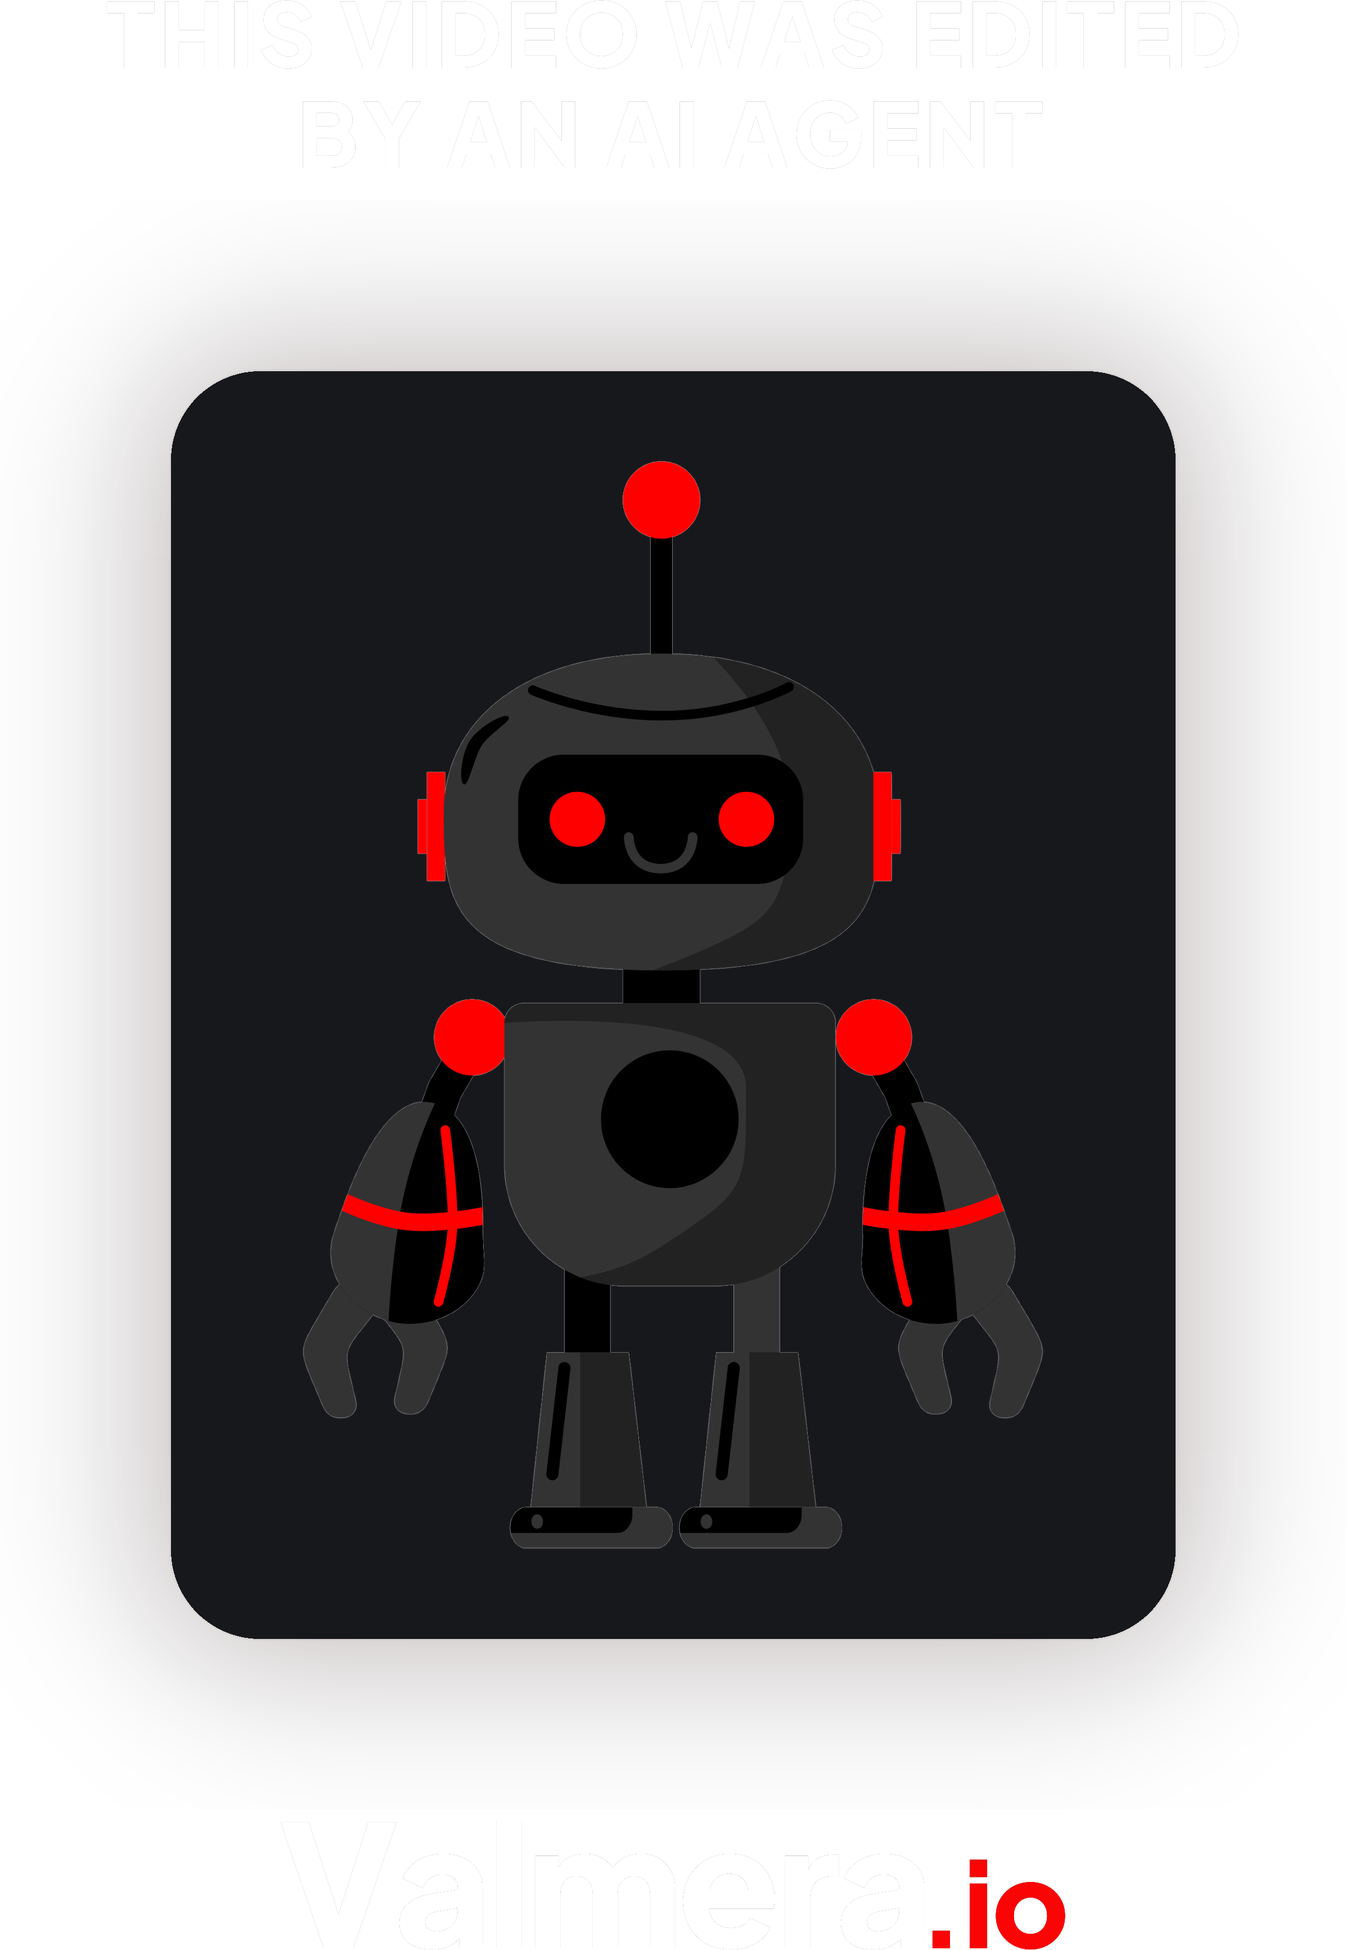
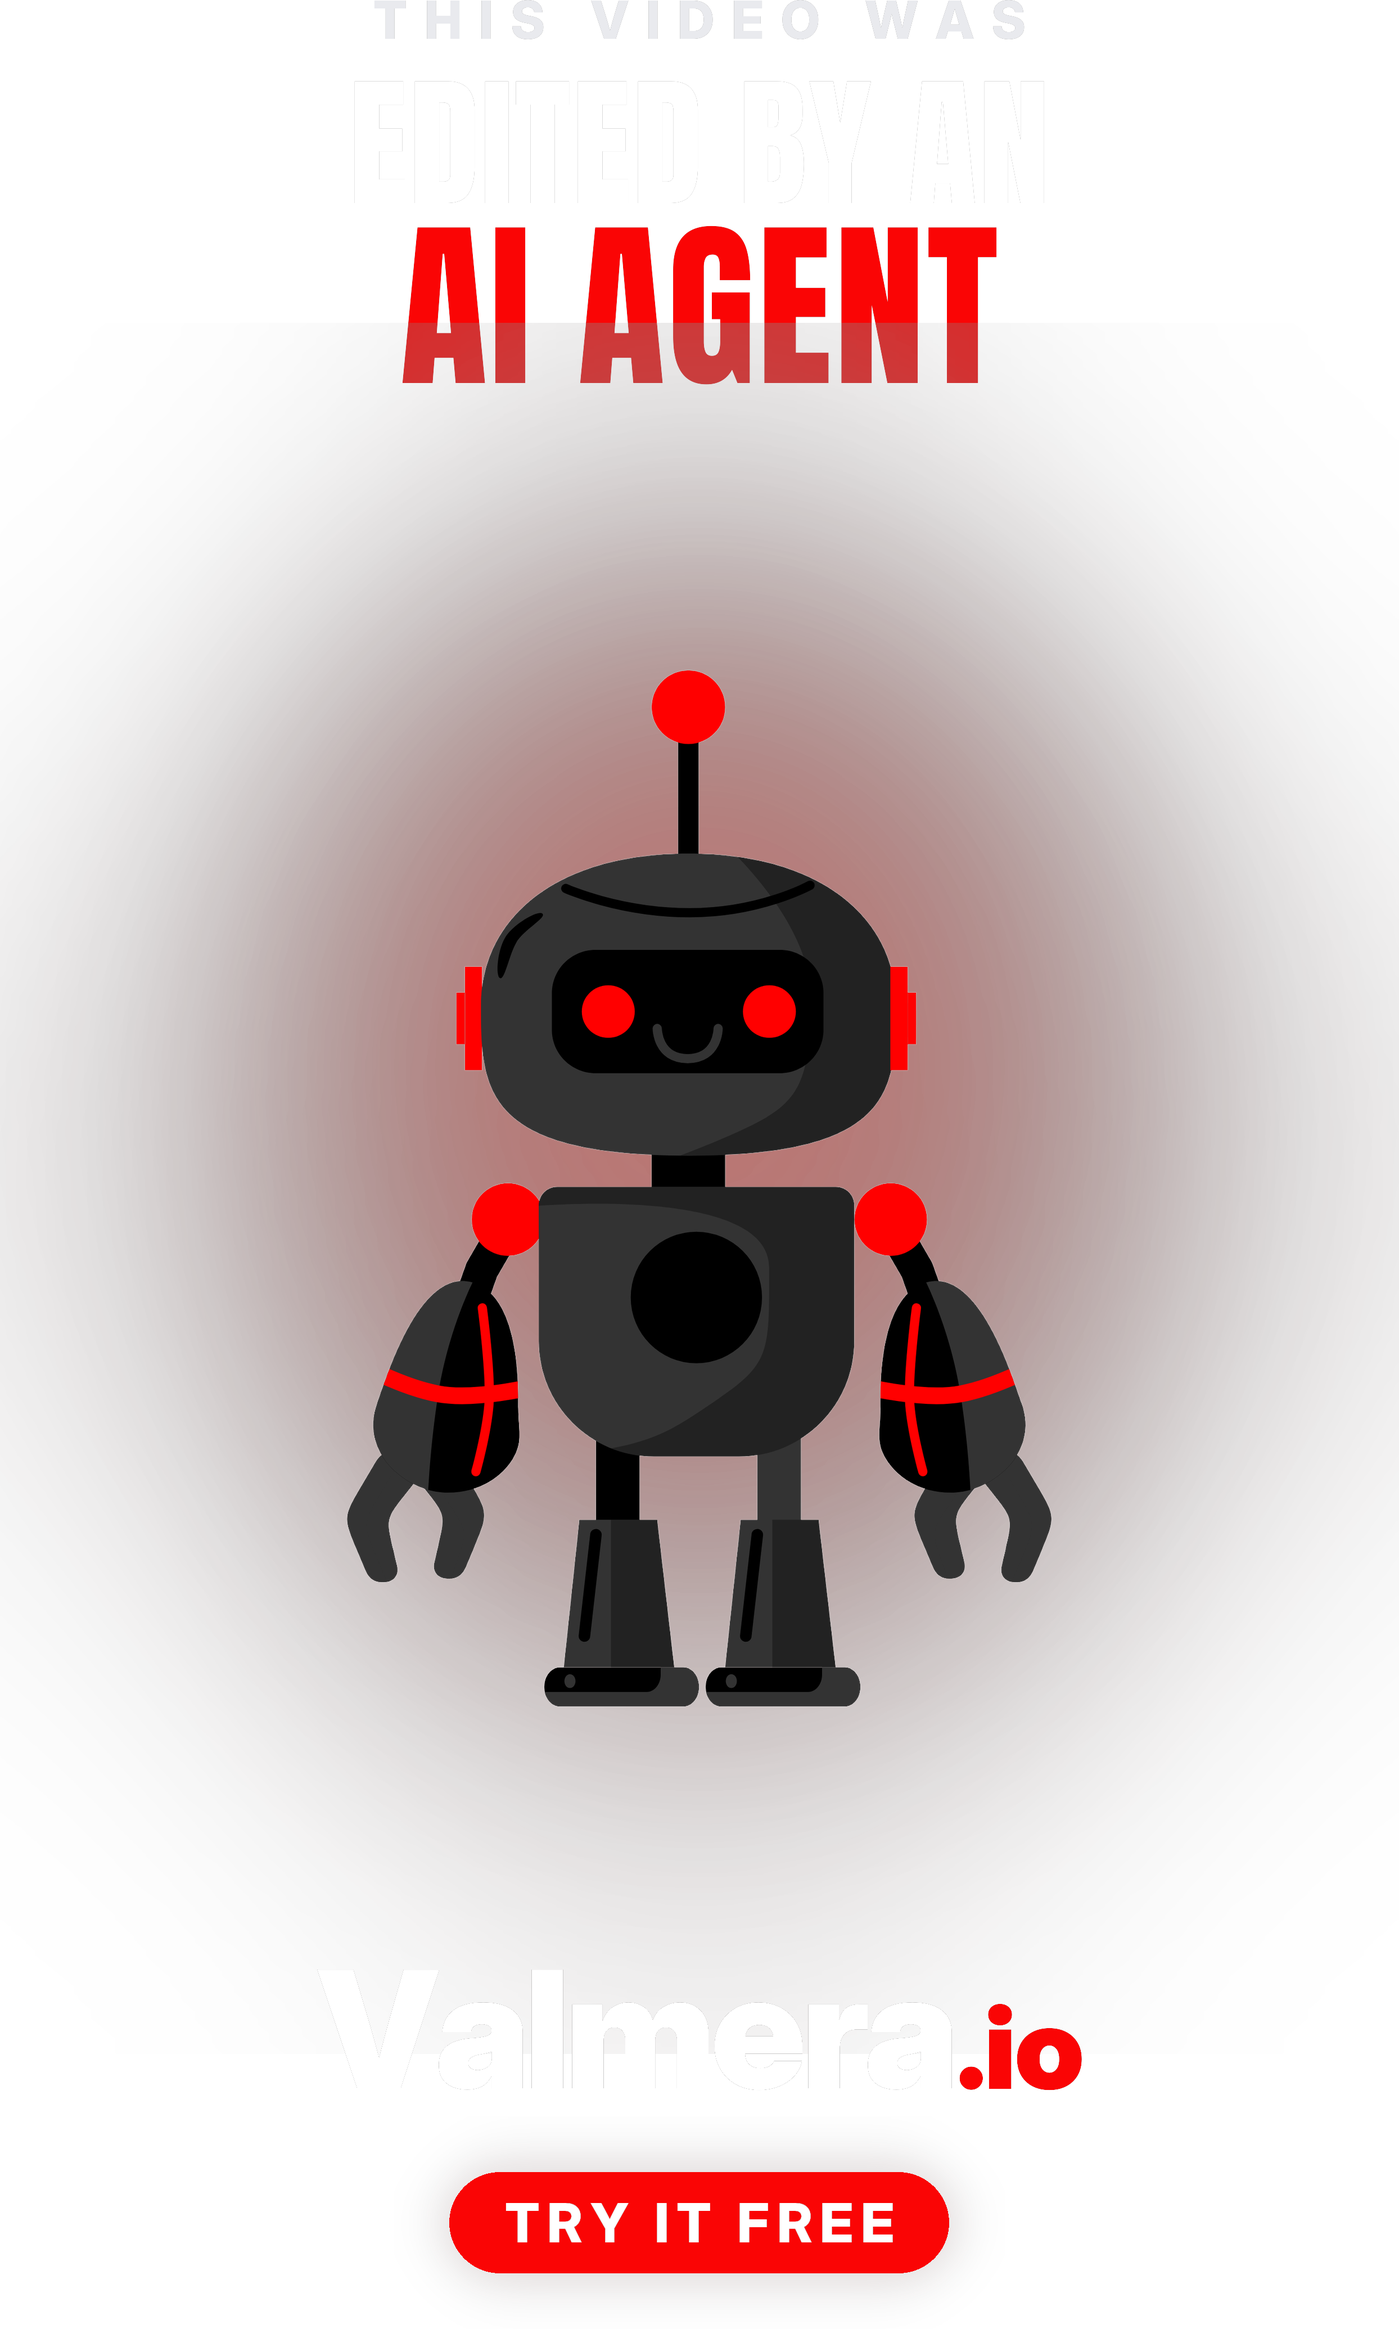
end card v5: the conversion page
v4's panel read as 'a background behind the robot' and Plus Jakarta's
tracked caps read as UI chrome, not a hook. v5: Anton display type
(THIS VIDEO WAS / EDITED BY AN / AI AGENT in red), the TRUE-color robot
floating on an organic two-layer red glow — light, not furniture — the
wordmark, and a filled TRY IT FREE pill. OUTRO_VERSION=5 both sides so
every cached final re-encodes with the page.

diff --git a/worker/tools/build_endcard.py b/worker/tools/build_endcard.py
@@ -1,29 +1,26 @@
 """Build the Valmera end card PNG that every export ends on.
 
-Round 99b: the card the owner spec'd, top to bottom —
+Round 100b — v5, the CONVERSION page. Three versions taught three lessons:
+v3 recolored the robot to survive bare black and the owner read it as the
+wrong robot; v4 kept the true colors by seating it on an elevated panel and
+the owner read the panel as "a background behind it"; and Plus Jakarta's
+tracked caps read as UI chrome, not a hook. So v5, top to bottom:
 
-    THIS VIDEO WAS EDITED
-        BY AN AI AGENT
-         [the robot]
-         Valmera.io
+    THIS VIDEO WAS            (quiet tracked eyebrow)
+    EDITED BY AN              (Anton — the shorts-native display face)
+    AI AGENT                  (Anton, red — the line that stops the scroll)
+        [the robot]           (TRUE plan-card colors, floating on an
+                               ORGANIC red glow — light, not furniture:
+                               no rectangle, no edge, nothing that reads
+                               as a plate)
+    Valmera.io                (the destination)
+    [ TRY IT FREE ]           (a filled red pill — the card is a PAGE with
+                               a call to action, not a watermark)
 
-The mark is the GRAY-RED robot — the Pro plan's card robot on the billing
-page (`frontend-next/public/hustler-robot112.riv`), rendered to
-`worker/brand/robot112.png` at 2400px via the headless-Chrome recipe in
-brand/README.md, so the card and the site show the same character.
-
-Two corrections, both deliberate:
-
-* BLACK-FLOOR LIFT. The artwork is drawn for a light card, so its pure-black
-  parts (antenna stalk, neck, visor plate, chest port, upper legs) are meant
-  to read as ink. On the black end card every one of them would dissolve into
-  the background — a floating red antenna ball, a head hovering off its body.
-  `_lift_blacks` raises just those near-black pixels to a dark charcoal that
-  still reads darker than the body grays but no longer vanishes.
-
-* SILHOUETTE GLOW. A dark robot on a black card needs an edge: a soft
-  radial wash, barely above black and slightly red, sits behind the mark so
-  the silhouette separates without reading as a "spotlight effect".
+The glow is what lets the robot's pure-black ink (antenna stalk, visor,
+joints) read against a black frame without repainting a single pixel: two
+stacked radial washes, the inner one warm and bright enough to silhouette
+the head and torso, both Gaussian-blurred until no boundary survives.
 
 Layout is set in INK boxes, never text boxes: a text box carries the font's
 full ascent/descent, so a nominal gap measures nearly double in whitespace.
@@ -32,17 +29,19 @@ import os
 from PIL import Image, ImageDraw, ImageFilter, ImageFont
 
 WHITE = (255, 255, 255, 255)
-# The robot's own red (sampled from the antenna ball) — the ".io" and nothing
-# else. One accent, used once, is what keeps the card premium instead of ad.
+SOFT = (233, 234, 238, 255)      # the eyebrow — white would fight the hero
+# The robot's own red (sampled from the antenna ball): the hero line, the
+# ".io" and the CTA fill. One red, three jobs, zero other colors.
 RED = (250, 5, 5, 255)
 
-ROBOT_PNG = os.path.join(os.path.dirname(os.path.dirname(
-    os.path.abspath(__file__))), "brand", "robot112.png")
-
-# Near-black pixels lift to this — visibly darker than the body's ~#2E3237
-# grays, visibly lighter than the void.
-FLOOR = (36, 38, 43)
-FLOOR_MAX = 24          # max(r,g,b) at or under this counts as "vanishes"
+_BRAND = os.path.join(os.path.dirname(os.path.dirname(
+    os.path.abspath(__file__))), "brand")
+_FONTS = os.path.join(os.path.dirname(os.path.dirname(
+    os.path.abspath(__file__))), "fonts")
+ROBOT_PNG = os.path.join(_BRAND, "robot112.png")
+ANTON = os.path.join(_FONTS, "Anton-Regular.ttf")
+INTER_XB = os.path.join(_FONTS, "InterDisplay-ExtraBold.ttf")
+INTER_BLACK = os.path.join(_FONTS, "InterDisplay-Black.ttf")
 
 
 def _ink(img):
@@ -50,66 +49,39 @@ def _ink(img):
     return img.crop(b) if b else img
 
 
-def _lift_blacks(img):
-    """Raise pure-black ink to FLOOR so it survives on a black card.
-    Returns (img, n_lifted); a zero count means the asset changed and the
-    lift no longer matches it — refuse to ship a dissolving robot."""
-    img = img.convert("RGBA")
-    px = img.load()
-    W, H = img.size
-    n = 0
-    for y in range(H):
-        for x in range(W):
-            r, g, b, a = px[x, y]
-            if a > 40 and max(r, g, b) <= FLOOR_MAX:
-                px[x, y] = (FLOOR[0], FLOOR[1], FLOOR[2], a)
-                n += 1
-    return img, n
-
-
-PANEL = (23, 24, 28, 255)         # elevated card surface — the plan card's
-PANEL_EDGE = (255, 255, 255, 22)  # hairline that separates it from the void
-
-
 def robot(height_px):
-    """The billing page's gray-red robot — TRUE colors, on the plan card.
+    """The billing page's gray-red robot — TRUE colors, floating on light.
 
-    Round 100. The v3 card recolored the robot to survive a bare black
-    background (black-floor lift + 1.22x brightness), and the owner read the
-    result as the WRONG robot: "the colours are different from the middle
-    plan's". The honest fix is the one the billing page itself uses — don't
-    repaint the character, give it its card: an elevated rounded panel a
-    step above the void, so the pure-black ink (antenna, visor, joints)
-    reads against the panel and every fill ships exactly as drawn. A soft
-    red under-glow floats the panel off the black.
+    No panel, no plate, no recolor. The two radial washes behind it are the
+    whole trick: the inner one is bright enough that the pure-black ink
+    (antenna, visor, joints) reads as silhouette, and both are blurred past
+    the point where any edge could read as a shape.
     """
     src = Image.open(ROBOT_PNG).convert("RGBA")
     w = max(1, round(src.width * height_px / src.height))
     mark = _ink(src.resize((w, height_px), Image.LANCZOS))
 
-    pad_x = int(height_px * 0.11)
-    pad_y = int(height_px * 0.075)
-    pw, ph = mark.width + 2 * pad_x, mark.height + 2 * pad_y
-    radius = int(height_px * 0.075)
-
-    halo = int(height_px * 0.14)
-    gw, gh = pw + 2 * halo, ph + 2 * halo
+    pad = int(height_px * 0.30)
+    gw, gh = mark.width + 2 * pad, mark.height + 2 * pad
     out = Image.new("RGBA", (gw, gh), (0, 0, 0, 0))
 
     glow = Image.new("RGBA", (gw, gh), (0, 0, 0, 0))
     d = ImageDraw.Draw(glow)
-    d.rounded_rectangle([halo * 0.55, halo * 0.55,
-                         gw - halo * 0.55, gh - halo * 0.55],
-                        radius=radius * 1.6, fill=(120, 26, 26, 132))
-    glow = glow.filter(ImageFilter.GaussianBlur(halo * 0.55))
+    # Outer wash: deep red, wide, barely-there at the rim.
+    d.ellipse([pad * 0.15, pad * 0.15, gw - pad * 0.15, gh - pad * 0.15],
+              fill=(122, 20, 20, 120))
+    glow = glow.filter(ImageFilter.GaussianBlur(pad * 0.60))
     out.alpha_composite(glow)
+    # Inner wash: warmer and brighter, sitting behind head + torso, so the
+    # black ink there has something to be dark AGAINST.
+    core = Image.new("RGBA", (gw, gh), (0, 0, 0, 0))
+    d = ImageDraw.Draw(core)
+    d.ellipse([gw * 0.17, gh * 0.12, gw * 0.83, gh * 0.74],
+              fill=(208, 52, 44, 158))
+    core = core.filter(ImageFilter.GaussianBlur(pad * 0.55))
+    out.alpha_composite(core)
 
-    panel = Image.new("RGBA", (gw, gh), (0, 0, 0, 0))
-    d = ImageDraw.Draw(panel)
-    d.rounded_rectangle([halo, halo, halo + pw, halo + ph], radius=radius,
-                        fill=PANEL, outline=PANEL_EDGE, width=3)
-    out.alpha_composite(panel)
-    out.paste(mark, (halo + pad_x, halo + pad_y), mark)
+    out.paste(mark, (pad, pad), mark)
     return out
 
 
@@ -146,76 +118,91 @@ def _wordmark(word_f, io_f):
     return layer
 
 
-def build(out_path, pjs_path):
-    """Compose the card.
+def _cta(label_f, text="TRY IT FREE"):
+    """The filled red pill. A page that wants the viewer to GO somewhere
+    carries a button, and a button is a shape — the one deliberate shape on
+    the card, which is exactly why the glow behind the robot must not be one."""
+    label = _text(text, label_f, WHITE, 0.14 * label_f.size)
+    pad_x = int(label_f.size * 1.05)
+    pad_y = int(label_f.size * 0.58)
+    W, H = label.width + 2 * pad_x, label.height + 2 * pad_y
+    pill = Image.new("RGBA", (W, H), (0, 0, 0, 0))
+    d = ImageDraw.Draw(pill)
+    d.rounded_rectangle([0, 0, W - 1, H - 1], radius=H // 2, fill=RED)
+    pill.paste(label, (pad_x, pad_y), label)
+    # A soft red bloom under the pill so it sits IN the scene's light
+    # rather than stickered onto it.
+    bloomp = int(H * 0.55)
+    out = Image.new("RGBA", (W + 2 * bloomp, H + 2 * bloomp), (0, 0, 0, 0))
+    bloom = Image.new("RGBA", out.size, (0, 0, 0, 0))
+    d = ImageDraw.Draw(bloom)
+    d.rounded_rectangle([bloomp * 0.6, bloomp * 0.6, out.width - bloomp * 0.6,
+                         out.height - bloomp * 0.6],
+                        radius=H, fill=(210, 30, 30, 110))
+    bloom = bloom.filter(ImageFilter.GaussianBlur(bloomp * 0.55))
+    out.alpha_composite(bloom)
+    out.paste(pill, (bloomp, bloomp), pill)
+    return out
 
-    One reading order, three registers: the STATEMENT (two big tracked lines
-    — what happened), the CHARACTER (the robot, largest element — who did
-    it), the NAME (Valmera.io — where). The robot leads the hierarchy per
-    the owner's spec ("the agent is big"); the headline is the widest
-    element and therefore sizes the card; the wordmark sits just under the
-    robot so character and name read as one unit.
+
+def build(out_path):
+    """Compose the page.
+
+    One reading order, four registers: the QUIET SETUP ("this video was"),
+    the HOOK (Anton, with AI AGENT as the red payoff line), the CHARACTER
+    (the robot, largest element), and the DESTINATION (wordmark + CTA pill).
+    Anton for the hook because this card plays at the end of vertical
+    SHORTS — it is the native display voice of that format; Inter Display
+    carries the small lines so the hook stays the only shout.
     """
-    HEAD_SIZE = 158
-    HEAD_TRACK = 0.045                     # airy, deliberate, not shouty
-    HEAD_LEAD = 56                         # between the two headline lines
-    ROBOT_H = 2150                         # "the agent is big" — it LEADS
-    WORD_SIZE = 300
-    IO_SIZE = 212
-    GAP_HEAD = 56                          # headline -> panel (halo adds air)
-    GAP_WORD = 18                          # panel -> wordmark (ditto)
+    EYEBROW_SIZE = 92
+    HERO_SIZE = 252
+    HERO2_SIZE = 322
+    ROBOT_H = 2050
+    WORD_SIZE = 290
+    IO_SIZE = 205
+    CTA_SIZE = 96
 
-    head_f = ImageFont.truetype(pjs_path, HEAD_SIZE)
-    head_f.set_variation_by_axes([800])
-    word_f = ImageFont.truetype(pjs_path, WORD_SIZE)
-    word_f.set_variation_by_axes([800])
-    io_f = ImageFont.truetype(pjs_path, IO_SIZE)
-    io_f.set_variation_by_axes([800])
+    eyebrow_f = ImageFont.truetype(INTER_XB, EYEBROW_SIZE)
+    hero_f = ImageFont.truetype(ANTON, HERO_SIZE)
+    hero2_f = ImageFont.truetype(ANTON, HERO2_SIZE)
+    word_f = ImageFont.truetype(INTER_BLACK, WORD_SIZE)
+    io_f = ImageFont.truetype(INTER_BLACK, IO_SIZE)
+    cta_f = ImageFont.truetype(INTER_XB, CTA_SIZE)
 
-    line1 = _text("THIS VIDEO WAS EDITED", head_f, WHITE,
-                  HEAD_TRACK * HEAD_SIZE)
-    line2 = _text("BY AN AI AGENT", head_f, WHITE, HEAD_TRACK * HEAD_SIZE)
+    eyebrow = _text("THIS VIDEO WAS", eyebrow_f, SOFT,
+                    0.34 * EYEBROW_SIZE)
+    hero1 = _text("EDITED BY AN", hero_f, WHITE, 0.012 * HERO_SIZE)
+    hero2 = _text("AI AGENT", hero2_f, RED, 0.012 * HERO2_SIZE)
     mark = robot(ROBOT_H)
     word = _wordmark(word_f, io_f)
+    cta = _cta(cta_f)
 
-    W = max(line1.width, line2.width, mark.width, word.width)
-    H = (line1.height + HEAD_LEAD + line2.height + GAP_HEAD
-         + mark.height + GAP_WORD + word.height)
+    GAP_EYEBROW = 74
+    GAP_HERO = 40
+    GAP_HERO2 = -110       # the glow's padding supplies the real air
+    GAP_ROBOT = -150
+    GAP_WORD = 46
+
+    W = max(eyebrow.width, hero1.width, hero2.width, mark.width,
+            word.width, cta.width)
+    parts = ((eyebrow, GAP_EYEBROW), (hero1, GAP_HERO), (hero2, GAP_HERO2),
+             (mark, GAP_ROBOT), (word, GAP_WORD), (cta, 0))
+    H = sum(p.height for p, _ in parts) + sum(g for _, g in parts[:-1])
     card = Image.new("RGBA", (W, H), (0, 0, 0, 0))
     y = 0
-    for part, gap in ((line1, HEAD_LEAD), (line2, GAP_HEAD),
-                      (mark, GAP_WORD), (word, 0)):
+    for part, gap in parts:
         card.paste(part, ((W - part.width) // 2, y), part)
         y += part.height + gap
 
     card.save(out_path)
     print(f"card {card.size[0]}x{card.size[1]}  aspect "
           f"{card.size[0] / card.size[1]:.3f}  robot {mark.size}  "
-          f"headline {line1.size}/{line2.size}  wordmark {word.size}  "
-          f"({os.path.getsize(out_path) / 1024:.0f} KB)")
+          f"hero {hero1.size}/{hero2.size}  wordmark {word.size}  "
+          f"cta {cta.size}  ({os.path.getsize(out_path) / 1024:.0f} KB)")
     return card
 
 
-PJS_URL = ("https://raw.githubusercontent.com/google/fonts/main/ofl/"
-           "plusjakartasans/PlusJakartaSans%5Bwght%5D.ttf")
-
-
-def _font(cache):
-    """Plus Jakarta Sans (SIL OFL 1.1), the site's wordmark face.
-
-    Fetched rather than vendored: only the RENDERED PIXELS ship in the image,
-    and the OFL restricts distributing font software, not images made with it.
-    """
-    if not os.path.exists(cache):
-        import urllib.request
-        print(f"fetching Plus Jakarta Sans -> {cache}")
-        urllib.request.urlretrieve(PJS_URL, cache)
-    return cache
-
-
 if __name__ == "__main__":
-    here = os.path.dirname(os.path.abspath(__file__))
-    brand = os.path.join(os.path.dirname(here), "brand")
-    os.makedirs(brand, exist_ok=True)
-    build(os.path.join(brand, "endcard.png"),
-          _font(os.path.join(here, "PJS.ttf")))
+    os.makedirs(_BRAND, exist_ok=True)
+    build(os.path.join(_BRAND, "endcard.png"))

diff --git a/worker/config.py b/worker/config.py
@@ -1349,11 +1349,11 @@ OUTRO_ON_PREVIEW = os.getenv("OUTRO_ON_PREVIEW", "0") == "1"
 # Bumped whenever the card's LOOK changes. It is stored on every render asset
 # and busts the render cache, so an existing export re-encodes with the new
 # card instead of serving pre-outro bytes forever.
-OUTRO_VERSION = 4      # v4: the robot in its TRUE plan-card colors on an
-                       # elevated rounded panel (the billing page's own card),
-                       # red under-glow, bigger mark and wordmark — the v3
-                       # black-floor recolor read as "the wrong robot". See
-                       # tools/build_endcard.py
+OUTRO_VERSION = 5      # v5: the conversion page — Anton hook ("EDITED BY AN /
+                       # AI AGENT" in red), the TRUE-color robot floating on
+                       # an organic red glow (no panel — v4's plate read as
+                       # "a background behind it"), wordmark + a filled TRY
+                       # IT FREE pill. See tools/build_endcard.py
 
 # ── Shorts mode (round 99) ───────────────────────────────────────────────
 # One shorts_plan job cuts a long video into at most this many child clips.

diff --git a/backend/routes/video.py b/backend/routes/video.py
@@ -4294,7 +4294,7 @@ def user_edl_write(user_id, project_id):
 # enqueues a render, and the worker re-encodes with the card.
 #
 # Previews are exempt: they carry no card, so their absent stamp is correct.
-OUTRO_VERSION = 4      # v4: true plan-card colors on the elevated panel
+OUTRO_VERSION = 5      # v5: the Anton conversion page, glow not panel
                        # (keep in step with worker/config.py OUTRO_VERSION —
                        # test_units checks the two match)
 
